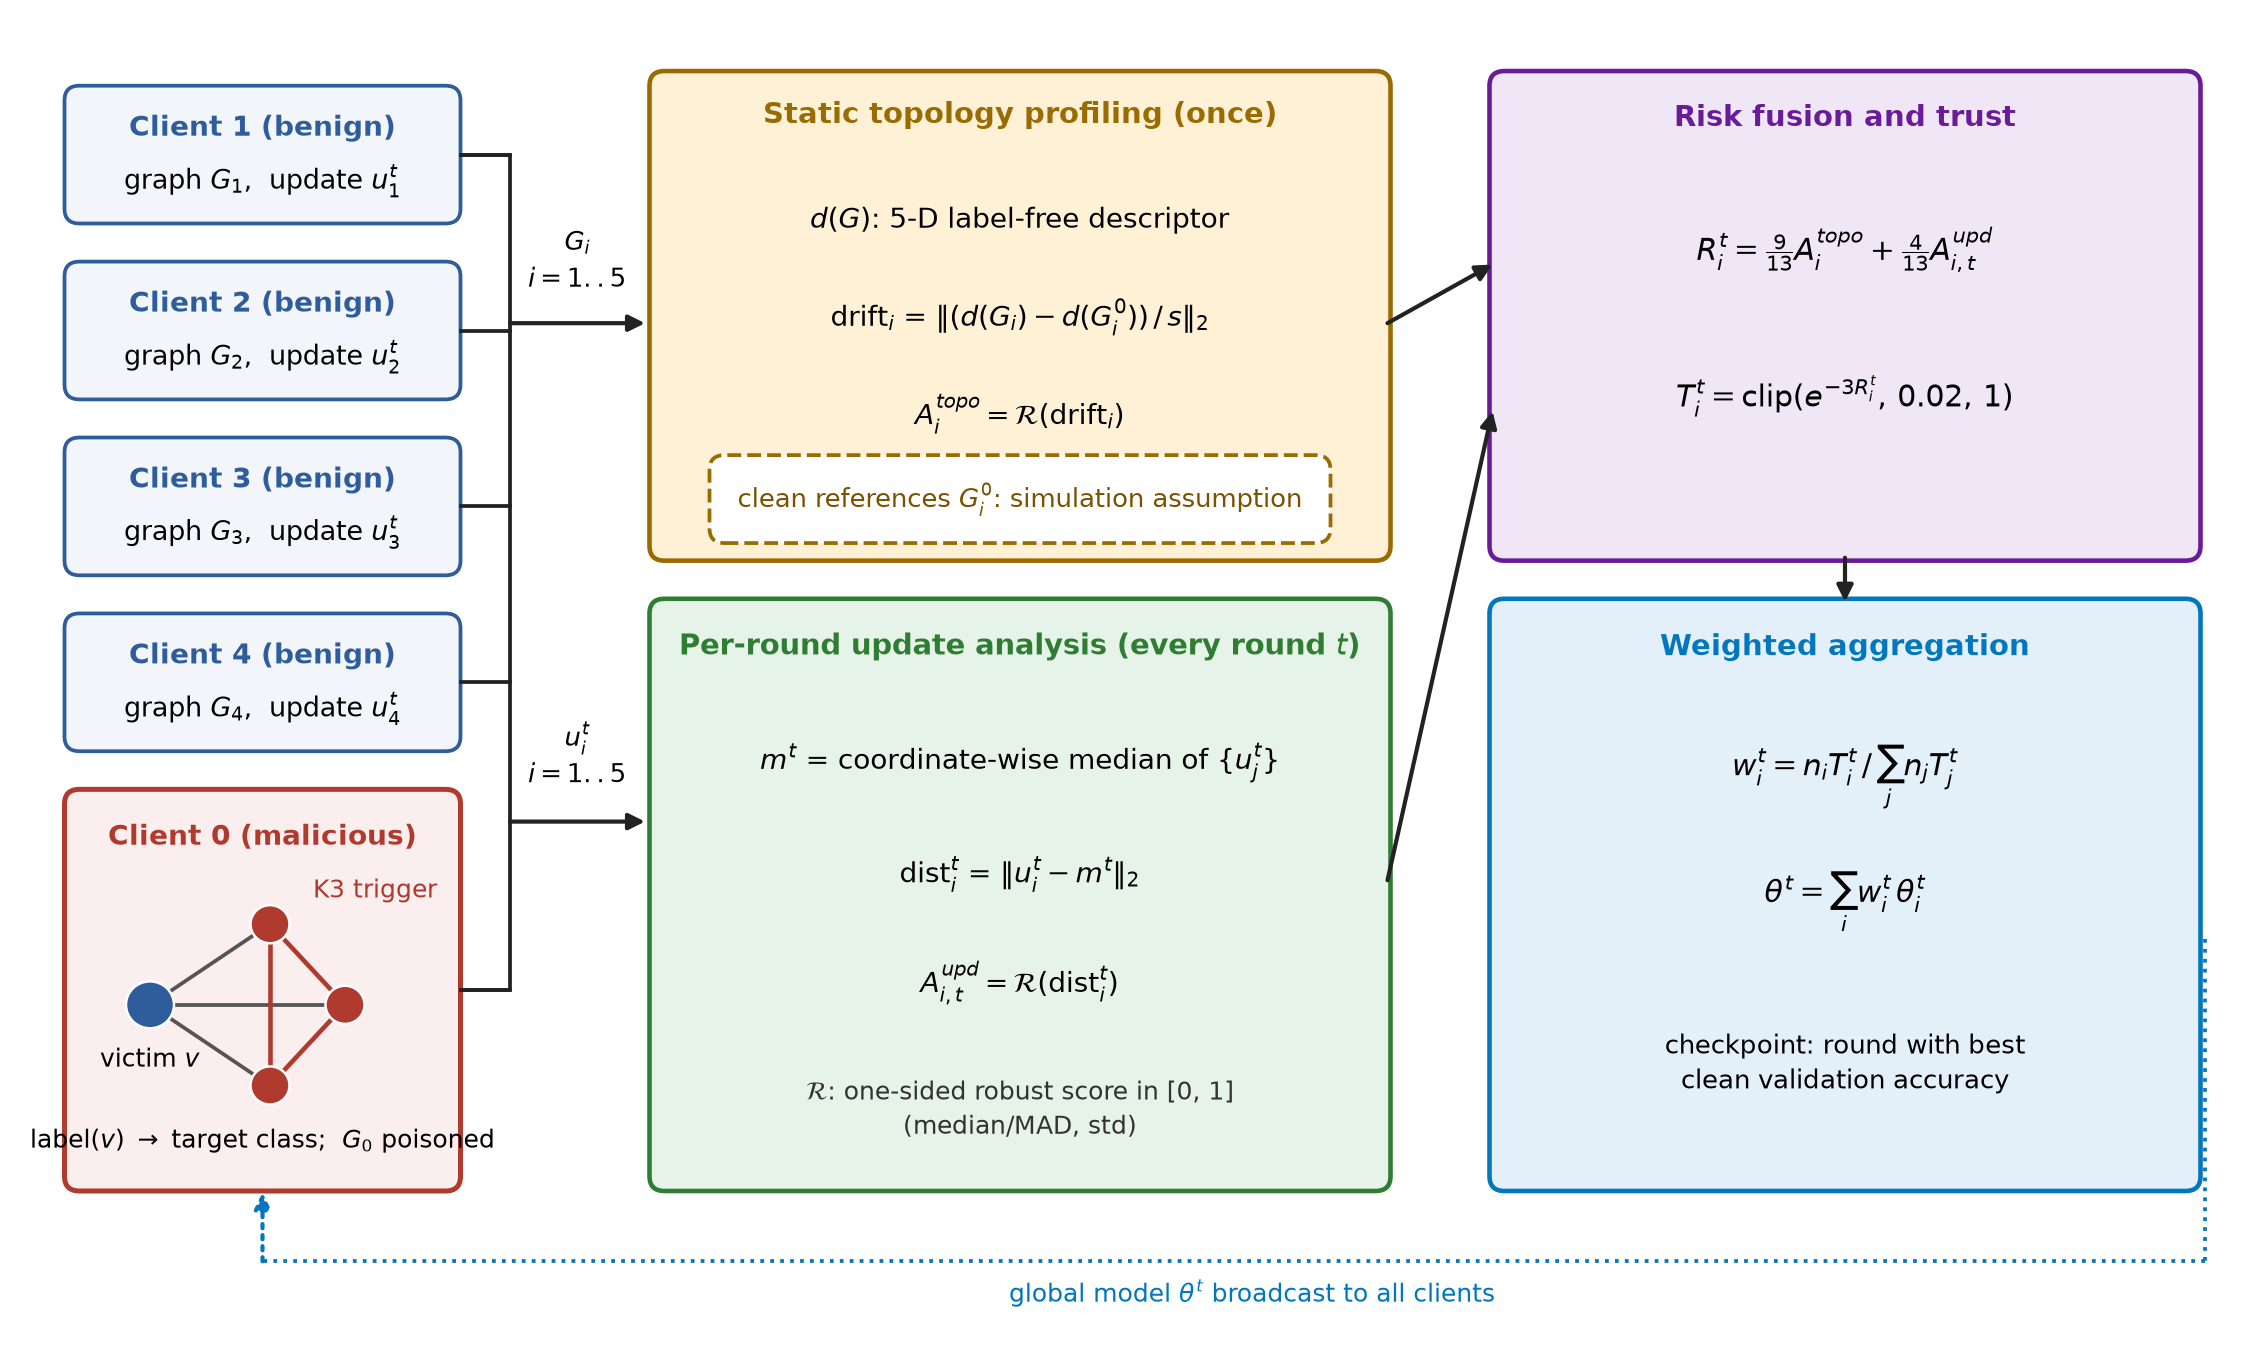
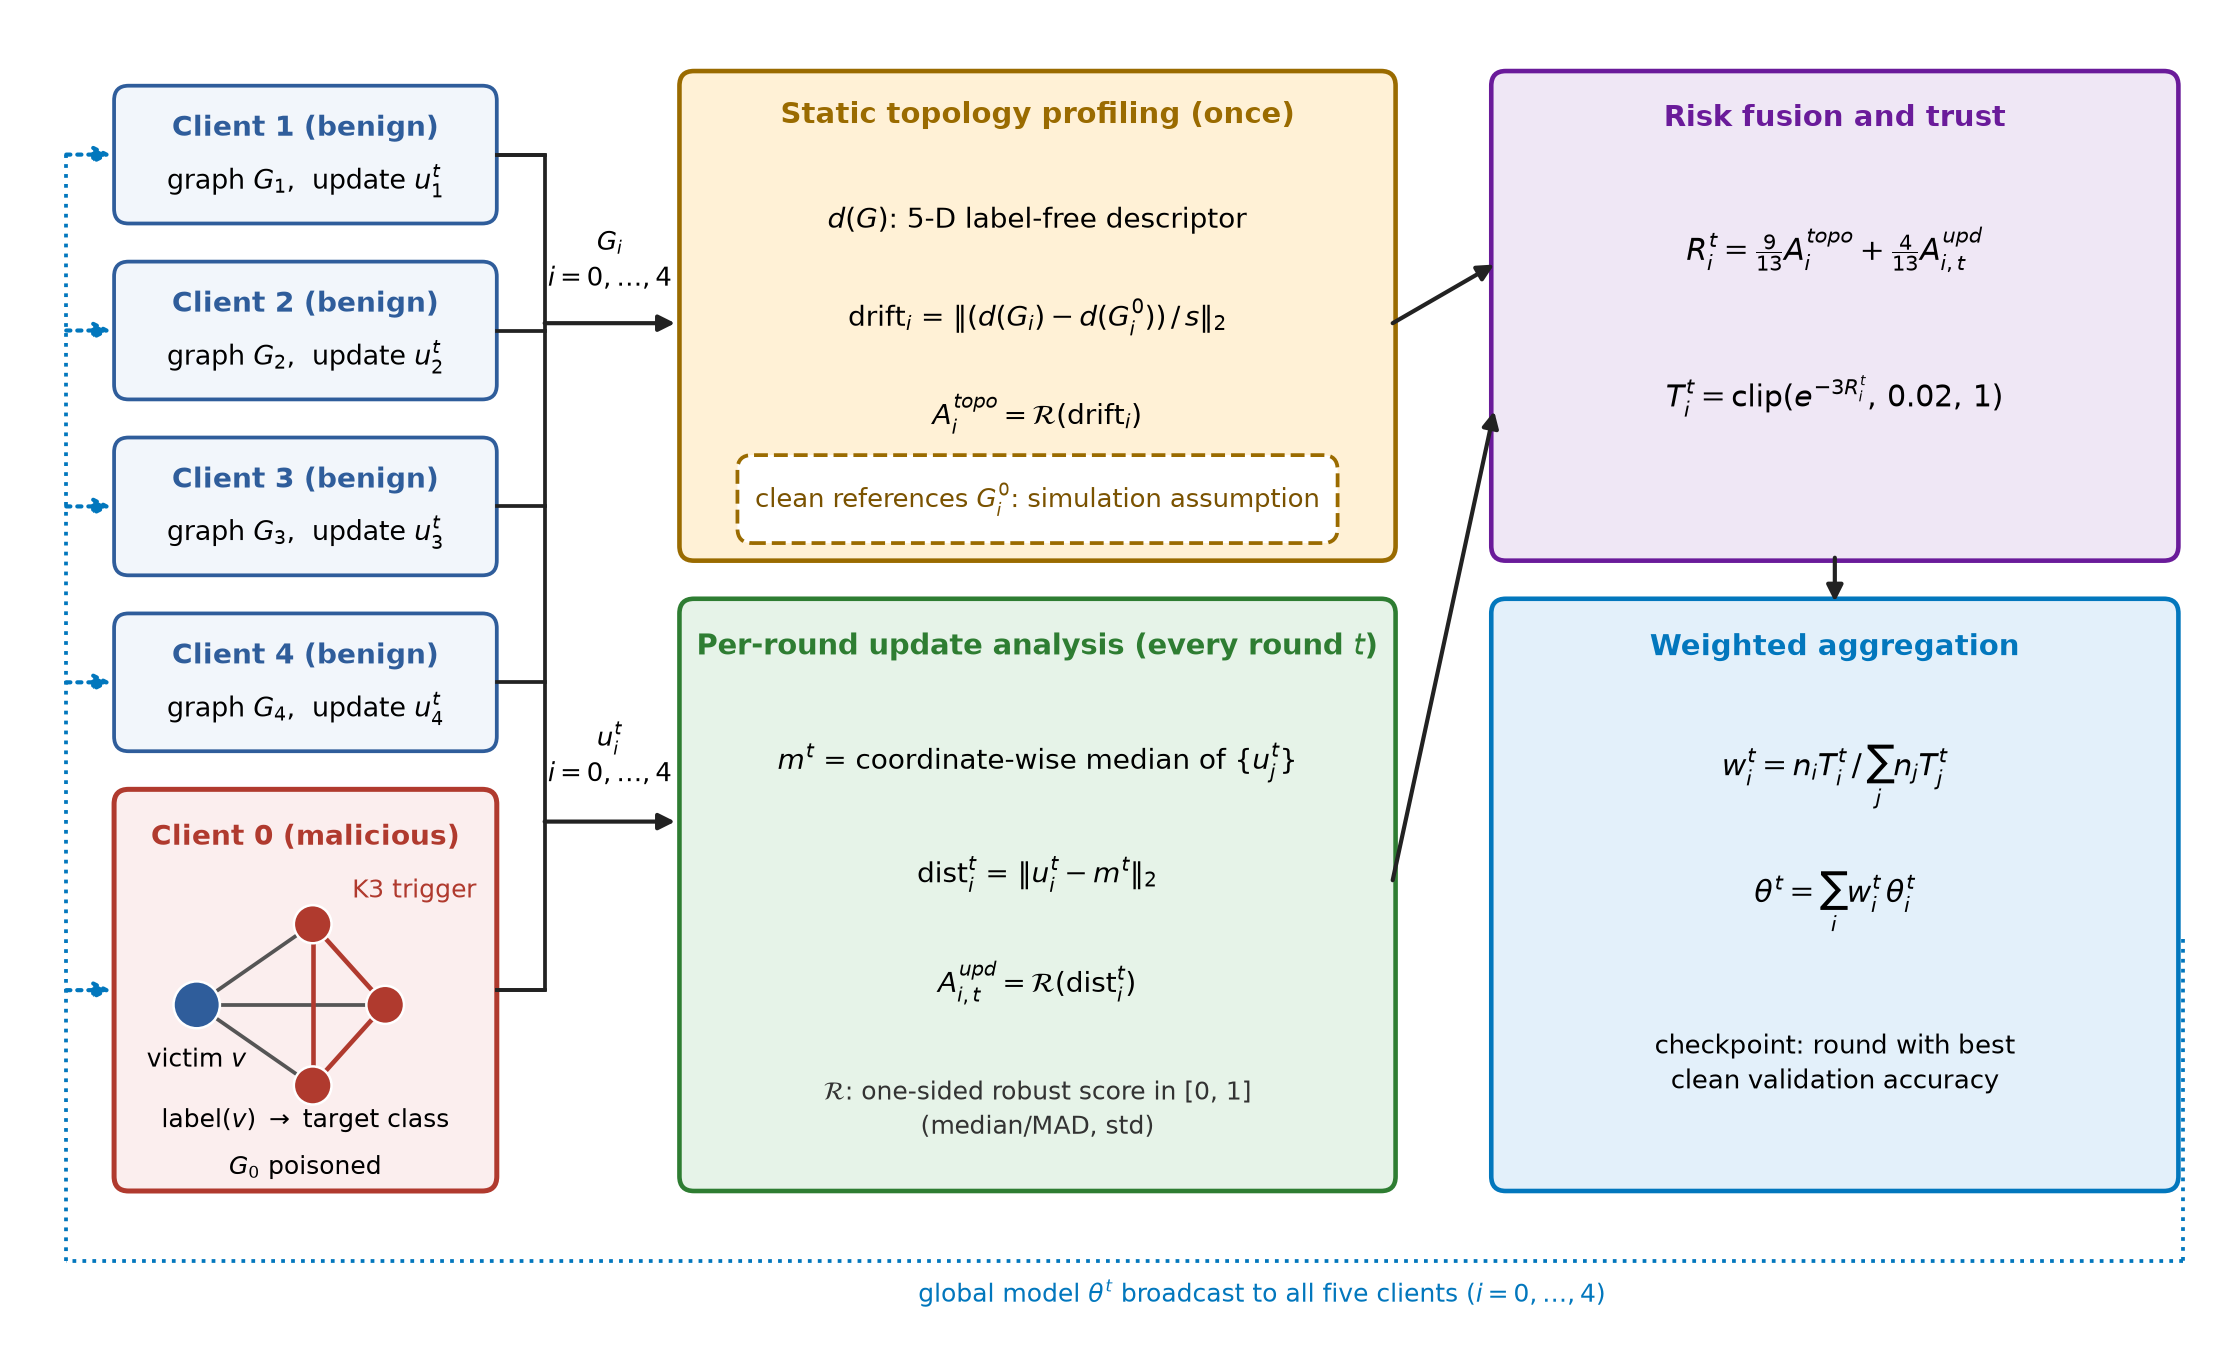
figures: final Fig 1 corrections and caption clarifications
Fig 1: client indices i = 0..4 (client 0 malicious), global-model broadcast now reaches all five
clients, bottom-left text kept inside the malicious-client box; equations re-checked against
ETDFGLAggregator. Captions: Fig 2 seed-42 single run and adapted baselines, Fig 4 descriptive
mean +/- SD (untruncated, may cross 0), Fig 5 best-validation checkpoint and genuine early spikes,
Fig 6 fixed-coefficient paired n=3, Fig 7 moving average visual-only. No plotted data changed
(plotted_data.json and tables unchanged; figure fidelity tests 6/6, full suite 88 passed).

diff --git a/tools/publication_figures/make_publication_figures.py b/tools/publication_figures/make_publication_figures.py
@@ -72,7 +72,7 @@ rt = pd.read_csv(TAB / "R11_runtime_same_method_across_suites.csv")
 # ====================================================================== Fig 1: architecture
 def fig1():
     fig, ax = plt.subplots(figsize=(W2, 4.3))
-    ax.set_xlim(0, 144); ax.set_ylim(-6, 82); ax.axis("off"); ax.set_position([0, 0, 1, 1])
+    ax.set_xlim(-5, 144); ax.set_ylim(-6, 82); ax.axis("off"); ax.set_position([0, 0, 1, 1])
     FS = 6.7
     GREY, ORG, GRN, PUR, BLU = "#F3F3F3", "#FFF1D6", "#E6F3E8", "#EFE7F5", "#E3F0FA"
     EO, EG, EP, EB = "#9A6B00", "#2E7D32", "#6A1B9A", "#0277BD"
@@ -106,14 +106,15 @@ def fig1():
         ax.add_patch(Circle((x_, y_), 1.3, fc=RED, ec="white", lw=0.6, zorder=3))
     txt(vx, vy - 3.6, "victim $v$", fs=6.0)
     txt(21.5, 23.3, "K3 trigger", fs=6.0, color=RED)
-    txt(14, 6.2, "label($v$) $\\to$ target class;  $G_0$ poisoned", fs=6.0)
+    txt(14, 7.6, "label($v$) $\\to$ target class", fs=6.0)
+    txt(14, 4.4, "$G_0$ poisoned", fs=6.0)
     # --- collector bracket: all five clients feed both channels
     bx = 30.5
     ax.plot([27.2, bx, bx, 27.2], [73.5, 73.5, 16.5, 16.5], color="#222", lw=0.9)
     for y_ in (73.5, 61.5, 49.5, 37.5, 16.5):
         ax.plot([27.2, bx], [y_, y_], color="#222", lw=0.9)
     arr((bx, 62), (39.5, 62)); arr((bx, 28), (39.5, 28))
-    txt(35, 66.3, "$G_i$\n$i=1..5$", fs=6.2); txt(35, 32.5, "$u_i^{t}$\n$i=1..5$", fs=6.2)
+    txt(35, 66.3, "$G_i$\n$i=0,\\ldots,4$", fs=6.2); txt(35, 32.5, "$u_i^{t}$\n$i=0,\\ldots,4$", fs=6.2)
 
     # --- static topology profiling
     box(40, 46, 49, 33, ORG, EO, lw=1.1)
@@ -141,11 +142,13 @@ def fig1():
     txt(119.5, 22.5, "$\\theta^{t} = \\sum_i w_i^{t}\\,\\theta_i^{t}$", fs=FS + 0.4)
     txt(119.5, 11.5, "checkpoint: round with best\nclean validation accuracy", fs=6.2)
     arr((89, 62), (96, 66)); arr((89, 24), (96, 56)); arr((119.5, 46), (119.5, 43))
-    # --- broadcast
+    # --- broadcast (reaches all five clients)
     ax.plot([143.5, 143.5], [20, -2.0], color=EB, lw=0.9, ls=":")
-    ax.plot([143.5, 14], [-2.0, -2.0], color=EB, lw=0.9, ls=":")
-    arr((14, -2.0), (14, 2.7), EB, ":")
-    txt(80, -4.2, "global model $\\theta^{t}$ broadcast to all clients", fs=6.0, color=EB)
+    ax.plot([143.5, -2.5], [-2.0, -2.0], color=EB, lw=0.9, ls=":")
+    ax.plot([-2.5, -2.5], [-2.0, 73.5], color=EB, lw=0.9, ls=":")
+    for y_ in (73.5, 61.5, 49.5, 37.5, 16.5):
+        arr((-2.5, y_), (0.6, y_), EB, ":")
+    txt(80, -4.2, "global model $\\theta^{t}$ broadcast to all five clients ($i=0,\\ldots,4$)", fs=6.0, color=EB)
     save(fig, "Fig1_etdfgl_architecture_workflow")
 
 

diff --git a/figures/publication/FIGURE_CAPTIONS.md b/figures/publication/FIGURE_CAPTIONS.md
@@ -1,16 +1,16 @@
 # Figure caption support (for later manuscript use; figures themselves carry no explanatory prose)
 
-**Fig. 1.** ETD-FGL as implemented in the simulation (K = 5, one malicious client, IID partition). Both evidence channels receive information from all five clients: current client graphs G_i feed a static topology profile computed once, and per-round updates u_i feed a median-distance analysis. The topology profile compares each G_i with a clean reference G_i^0, which is a simulation assumption (the server has exact clean graphs). Both scores pass through the same one-sided robust map R, are fused as 9/13 and 4/13, converted to trust, and used for sample-weighted aggregation. The malicious client attaches a K3 clique to each victim training node and relabels it to the target class. The checkpoint is chosen by clean validation accuracy.
+**Fig. 1.** ETD-FGL as implemented in the simulation (K = 5, one malicious client, IID partition). Both evidence channels receive information from all five clients (indices 0-4; client 0 is malicious, clients 1-4 benign), and the global model is broadcast back to all five: current client graphs G_i feed a static topology profile computed once, and per-round updates u_i feed a median-distance analysis. The topology profile compares each G_i with a clean reference G_i^0, which is a simulation assumption (the server has exact clean graphs). Both scores pass through the same one-sided robust map R, are fused as 9/13 and 4/13, converted to trust, and used for sample-weighted aggregation. The malicious client attaches a K3 clique to each victim training node and relabels it to the target class. The checkpoint is chosen by clean validation accuracy.
 
-**Fig. 2.** Seed-42 comparison of eight methods (single run per bar, no uncertainty). (a) Backdoor ASR, lower is better. (b) Clean test accuracy, higher is better. * Adapted re-implementations, not exact reproductions of the original methods.
+**Fig. 2.** Seed-42 single-run results for eight methods (one run per bar; no uncertainty can be shown). (a) Backdoor ASR, lower is better. (b) Clean test accuracy, higher is better. * Adapted re-implementations (PD-FL, GSP-FL, FLPurifier-GNN, DMGNN-FL, FedTGE), untuned and not exact reproductions of the original methods.
 
-**Fig. 4.** Seeds 42, 43, 44 for Attacked FedAvg and ETD-FGL. Dots: individual seeds; bar: mean; whiskers: sample SD (ddof = 1, n = 3). Reddit seed 43 (ASR 34.82 %) is marked; no cause has been established. Accuracy axes are zoomed and differ per panel. No significance test was performed.
+**Fig. 4.** Seeds 42, 43, 44 for Attacked FedAvg and ETD-FGL. Dots: individual seeds; bar: mean; whiskers: mean ± sample SD (ddof = 1, n = 3), a descriptive interval only. Because n = 3 and the SD can be large relative to the mean, the interval can extend below 0 % (Reddit ETD-FGL ASR) although ASR cannot be negative; whiskers are drawn untruncated and are not confidence intervals. Reddit seed 43 (ASR 34.82 %) is marked; no cause has been established. Accuracy axes are zoomed and differ per panel. No significance test was performed.
 
-**Fig. 5.** Seed 42, all 50 rounds, unsmoothed, global-model evaluation each round. (b) ETD-FGL ASR in round 1 is 75.4 % (Cora) and 99.9 % (PubMed), i.e. the attack is not suppressed from round 1; Cora shows further spikes in rounds 6 and 12. Reported table values use the best clean-validation round, not round 50.
+**Fig. 5.** Seed 42, all 50 rounds, unsmoothed, global-model evaluation each round. (b) ETD-FGL ASR in round 1 is 75.4 % (Cora) and 99.9 % (PubMed), i.e. the attack is not suppressed from round 1; Cora shows further spikes in rounds 6 and 12. Reported final metrics (tables) correspond to the best clean-validation checkpoint, not necessarily round 50. The early ASR spikes are genuine measurements and are not smoothed.
 
-**Fig. 6.** Fixed-coefficient ablation (coefficients not renormalised): Full (9/13, 4/13), no update (9/13, 0), no topology (0, 4/13); three paired seeds. (a) ASR per variant, grey lines join the same seed. (b) Paired change in ASR relative to Full, in percentage points; bars/whiskers: mean ± sample SD (ddof = 1). No statistical test was run. Results hold for the tested setting (one static attacker, IID, K3 trigger).
+**Fig. 6.** Fixed-coefficient paired ablation (coefficients are held at their production values and not renormalised): Full (9/13, 4/13), no update (9/13, 0), no topology (0, 4/13), compared seed by seed (n = 3 pairs). (a) ASR per variant, grey lines join the same seed. (b) Paired change in ASR relative to Full, in percentage points; bars/whiskers: mean ± sample SD (ddof = 1). No statistical test was run. Results hold for the tested setting (one static attacker, IID, K3 trigger).
 
-**Fig. 7.** Attacker aggregation weight per round, seed 42. Raw traces are drawn; the thick orange line is a 5-round moving average of the no-topology trace (visual aid only). The dotted line is the uniform 20 % share. Lower attacker weight is not by itself evidence of lower ASR (e.g. Reddit seed 43; see Fig. 4). The no-update variant is constant at 4.12 % by construction (saturated topology score).
+**Fig. 7.** Attacker aggregation weight per round, seed 42. Raw traces are drawn; the thick orange line is a 5-round moving average of the no-topology trace (visual aid only; the raw trace is the measurement). The dotted line is the uniform 20 % share. Lower attacker weight is not by itself evidence of lower ASR (e.g. Reddit seed 43; see Fig. 4). The no-update variant is constant at 4.12 % by construction (saturated topology score).
 
 **Fig. S1 (supplementary, exploratory).** Single-run wall-clock times; hardware not recorded for the stored runs, the same Attacked FedAvg Reddit seed-42 run was timed 18.7 to 50.7 s in different suites. Not evidence of overhead or speed advantage.
 
